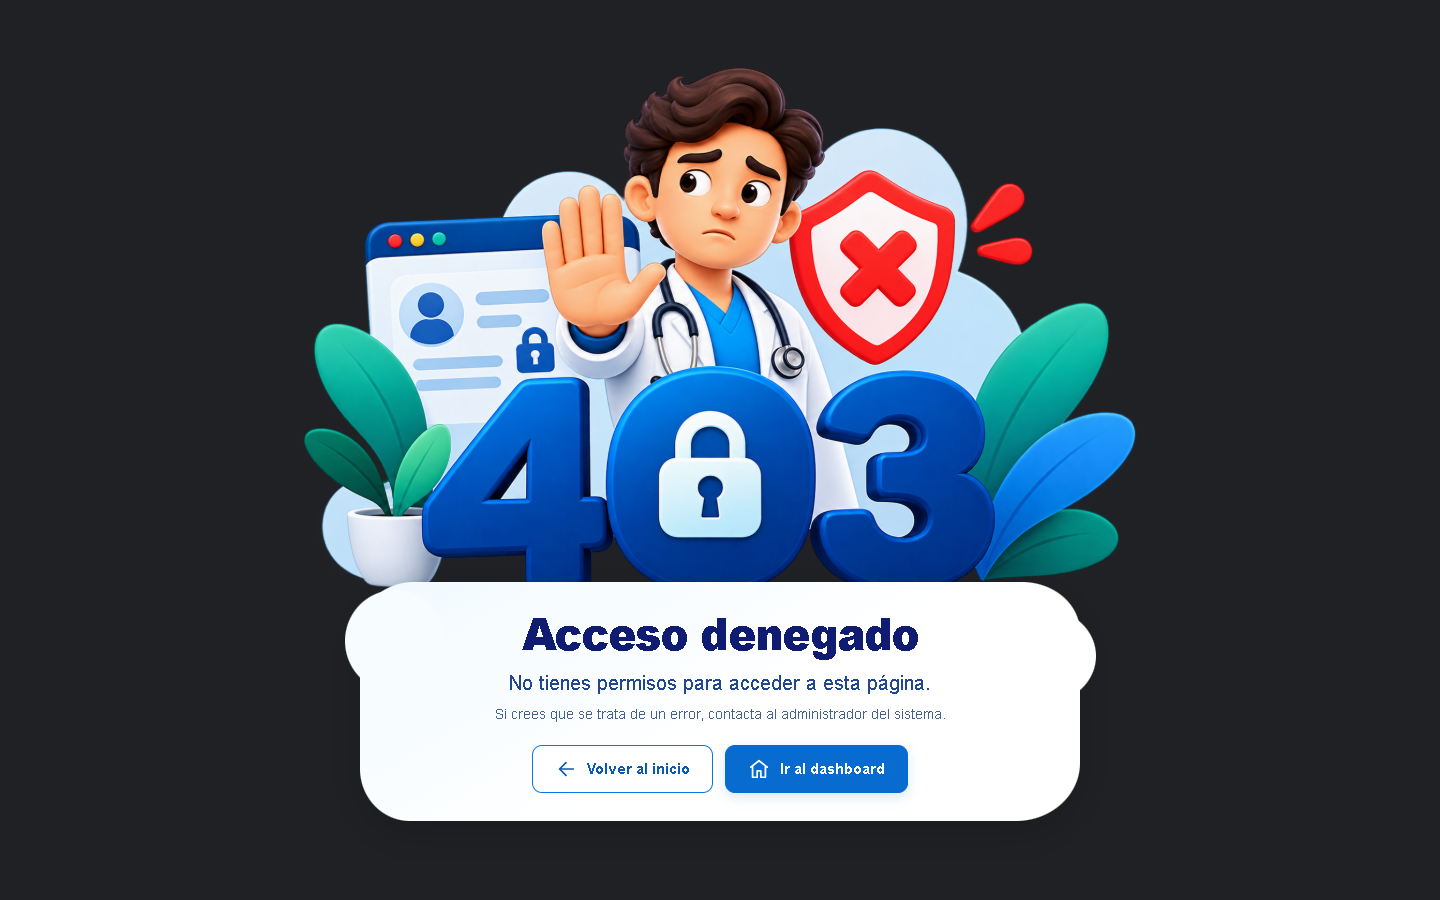
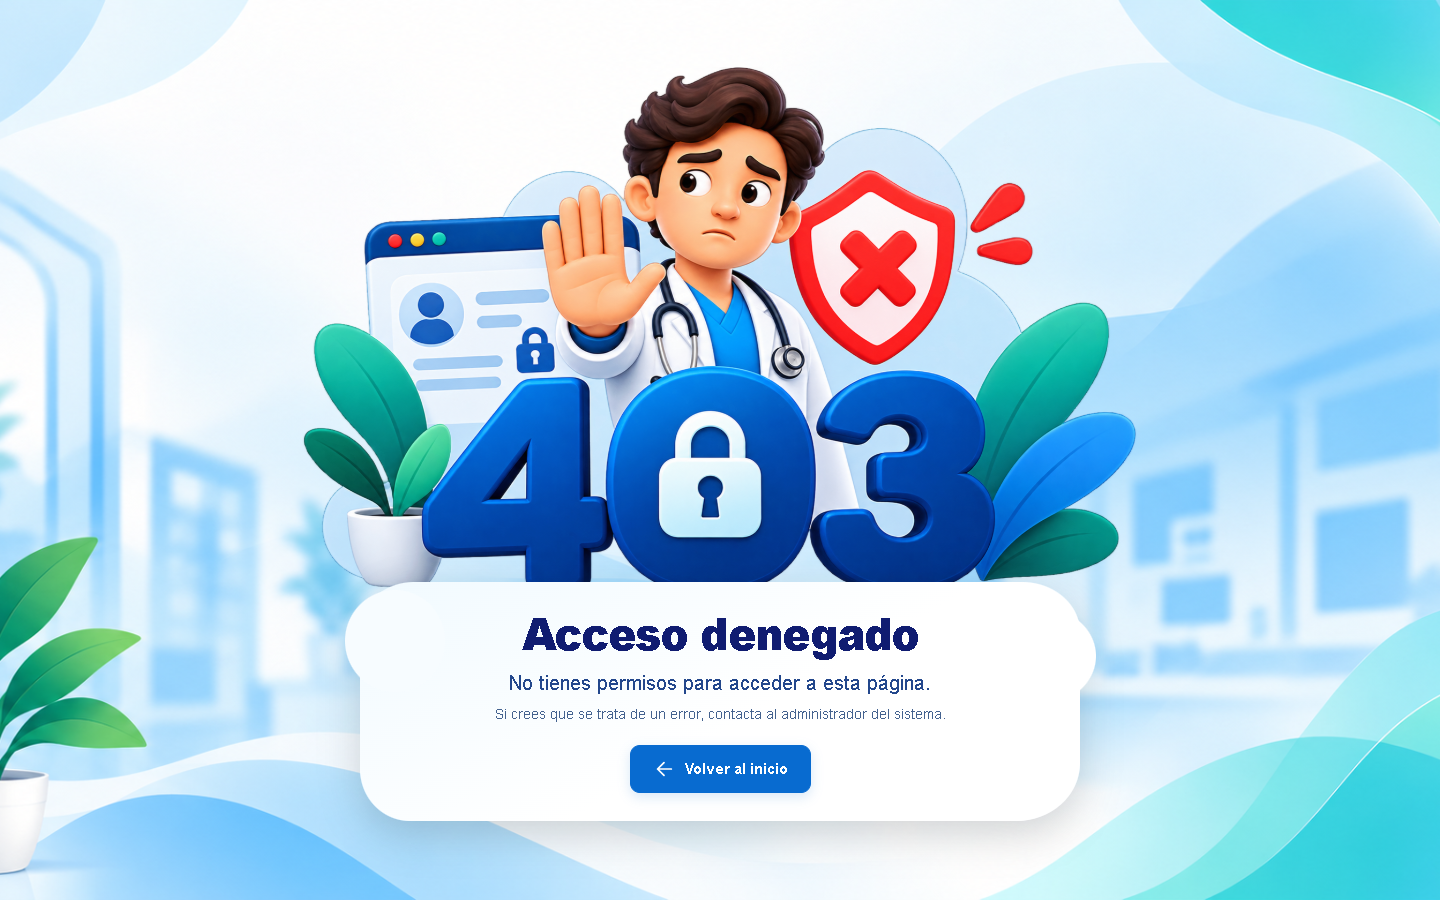
fix(ui): align 403 background with login and simplify recovery

diff --git a/tests/integration/accessDenied.http.test.js b/tests/integration/accessDenied.http.test.js
@@ -23,10 +23,10 @@ function createApplication(role, allowedRole = "Patient") {
 
 describe("access-denied page and role enforcement", () => {
     test.each([
-        ["Patient", "Administrator", "/patient/dashboard"],
-        ["Doctor", "Patient", "/doctor/dashboard"],
-        ["Administrator", "Patient", "/admin/dashboard"],
-    ])("renders a 403 with recovery for the verified %s role", async (role, allowedRole, href) => {
+        ["Patient", "Administrator"],
+        ["Doctor", "Patient"],
+        ["Administrator", "Patient"],
+    ])("renders a 403 with recovery for the verified %s role", async (role, allowedRole) => {
         const response = await request(createApplication(role, allowedRole))
             .get("/restricted")
             .accept("html");
@@ -34,7 +34,7 @@ describe("access-denied page and role enforcement", () => {
         expect(response.status).toBe(403);
         expect(response.headers["cache-control"]).toBe("no-store");
         expect(response.text).toContain("Acceso denegado");
-        expect(response.text).toContain(`href="${href}"`);
+        expect(response.text).not.toContain("/dashboard");
         expect(response.text).toContain('href="/"');
         expect(response.text).not.toContain(protectedContent);
     });
@@ -46,7 +46,8 @@ describe("access-denied page and role enforcement", () => {
             .accept("html");
 
         expect(response.status).toBe(403);
-        expect(response.text).toContain('href="/doctor/dashboard"');
+        expect(response.text).toContain('href="/"');
+        expect(response.text).not.toContain("/dashboard");
         expect(response.text).not.toContain('href="/admin/dashboard"');
         expect(response.text).not.toContain("example.test");
     });

diff --git a/public/css/error-403.css b/public/css/error-403.css
@@ -1,11 +1,12 @@
-/* A self-contained access-denied view matching the supplied dark reference. */
+/* A self-contained access-denied view using the shared login background. */
 .error-403-page {
     min-width: 320px;
     min-height: 100vh;
     min-height: 100svh;
     margin: 0;
     color: #123b73;
-    background: #202124;
+    background: #edf7ff url("/brand/login/background-login.png") center / cover no-repeat;
+    background-attachment: fixed;
     font-family: Arial, Helvetica, sans-serif;
 }
 .error-403-page *,
@@ -126,13 +127,6 @@
     stroke-width: 1.9;
     stroke-linecap: round;
     stroke-linejoin: round;
-}
-.error-403-button-secondary {
-    color: #085ab3;
-    background: #fff;
-}
-.error-403-button-secondary:hover {
-    background: #edf7ff;
 }
 .error-403-button-primary {
     border-color: #086bd0;

diff --git a/src/middleware/authenticateToken.js b/src/middleware/authenticateToken.js
@@ -124,18 +124,9 @@ export function requireRole(...allowedRoles) {
                 !req.path?.startsWith("/api/") && req.accepts?.(["html", "json"]) === "html";
 
             if (wantsHtml) {
-                const dashboards = {
-                    Patient: "/patient/dashboard",
-                    Doctor: "/doctor/dashboard",
-                    Administrator: "/admin/dashboard",
-                };
-                const role = req.auth?.role;
-                const dashboardHref = Object.hasOwn(dashboards, role) ? dashboards[role] : null;
-
                 res.set("Cache-Control", "no-store");
                 return res.status(403).render("errors/403", {
                     pageTitle: "Acceso denegado | SaludVital",
-                    dashboardHref,
                 });
             }
 
